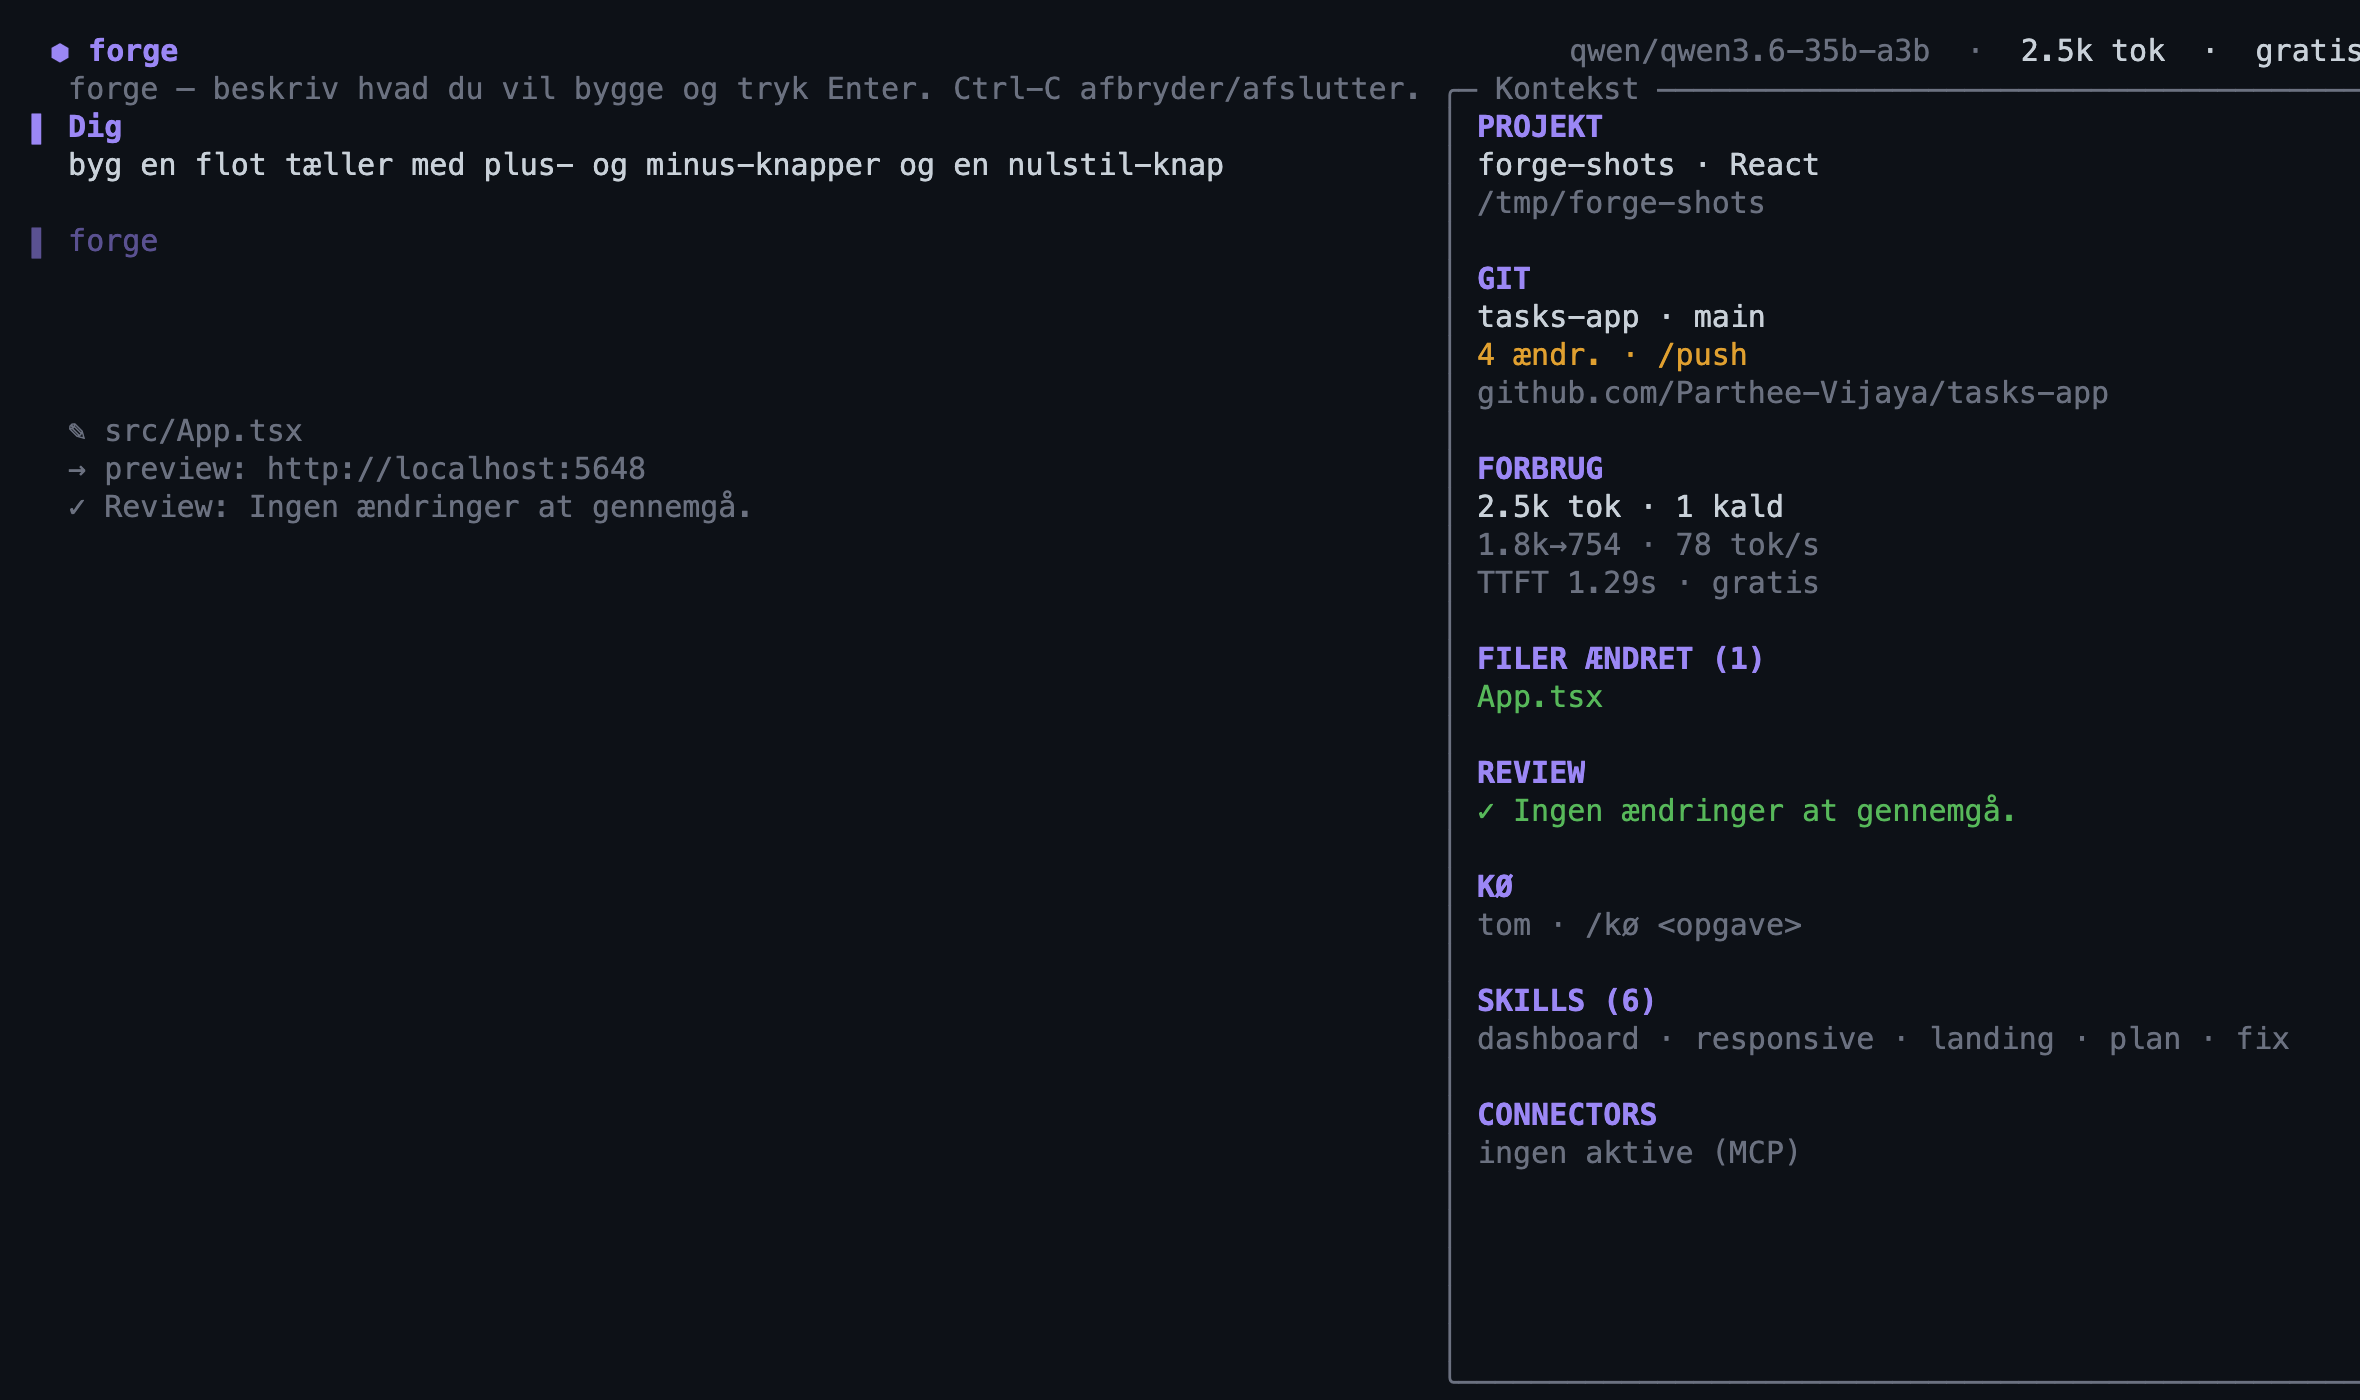
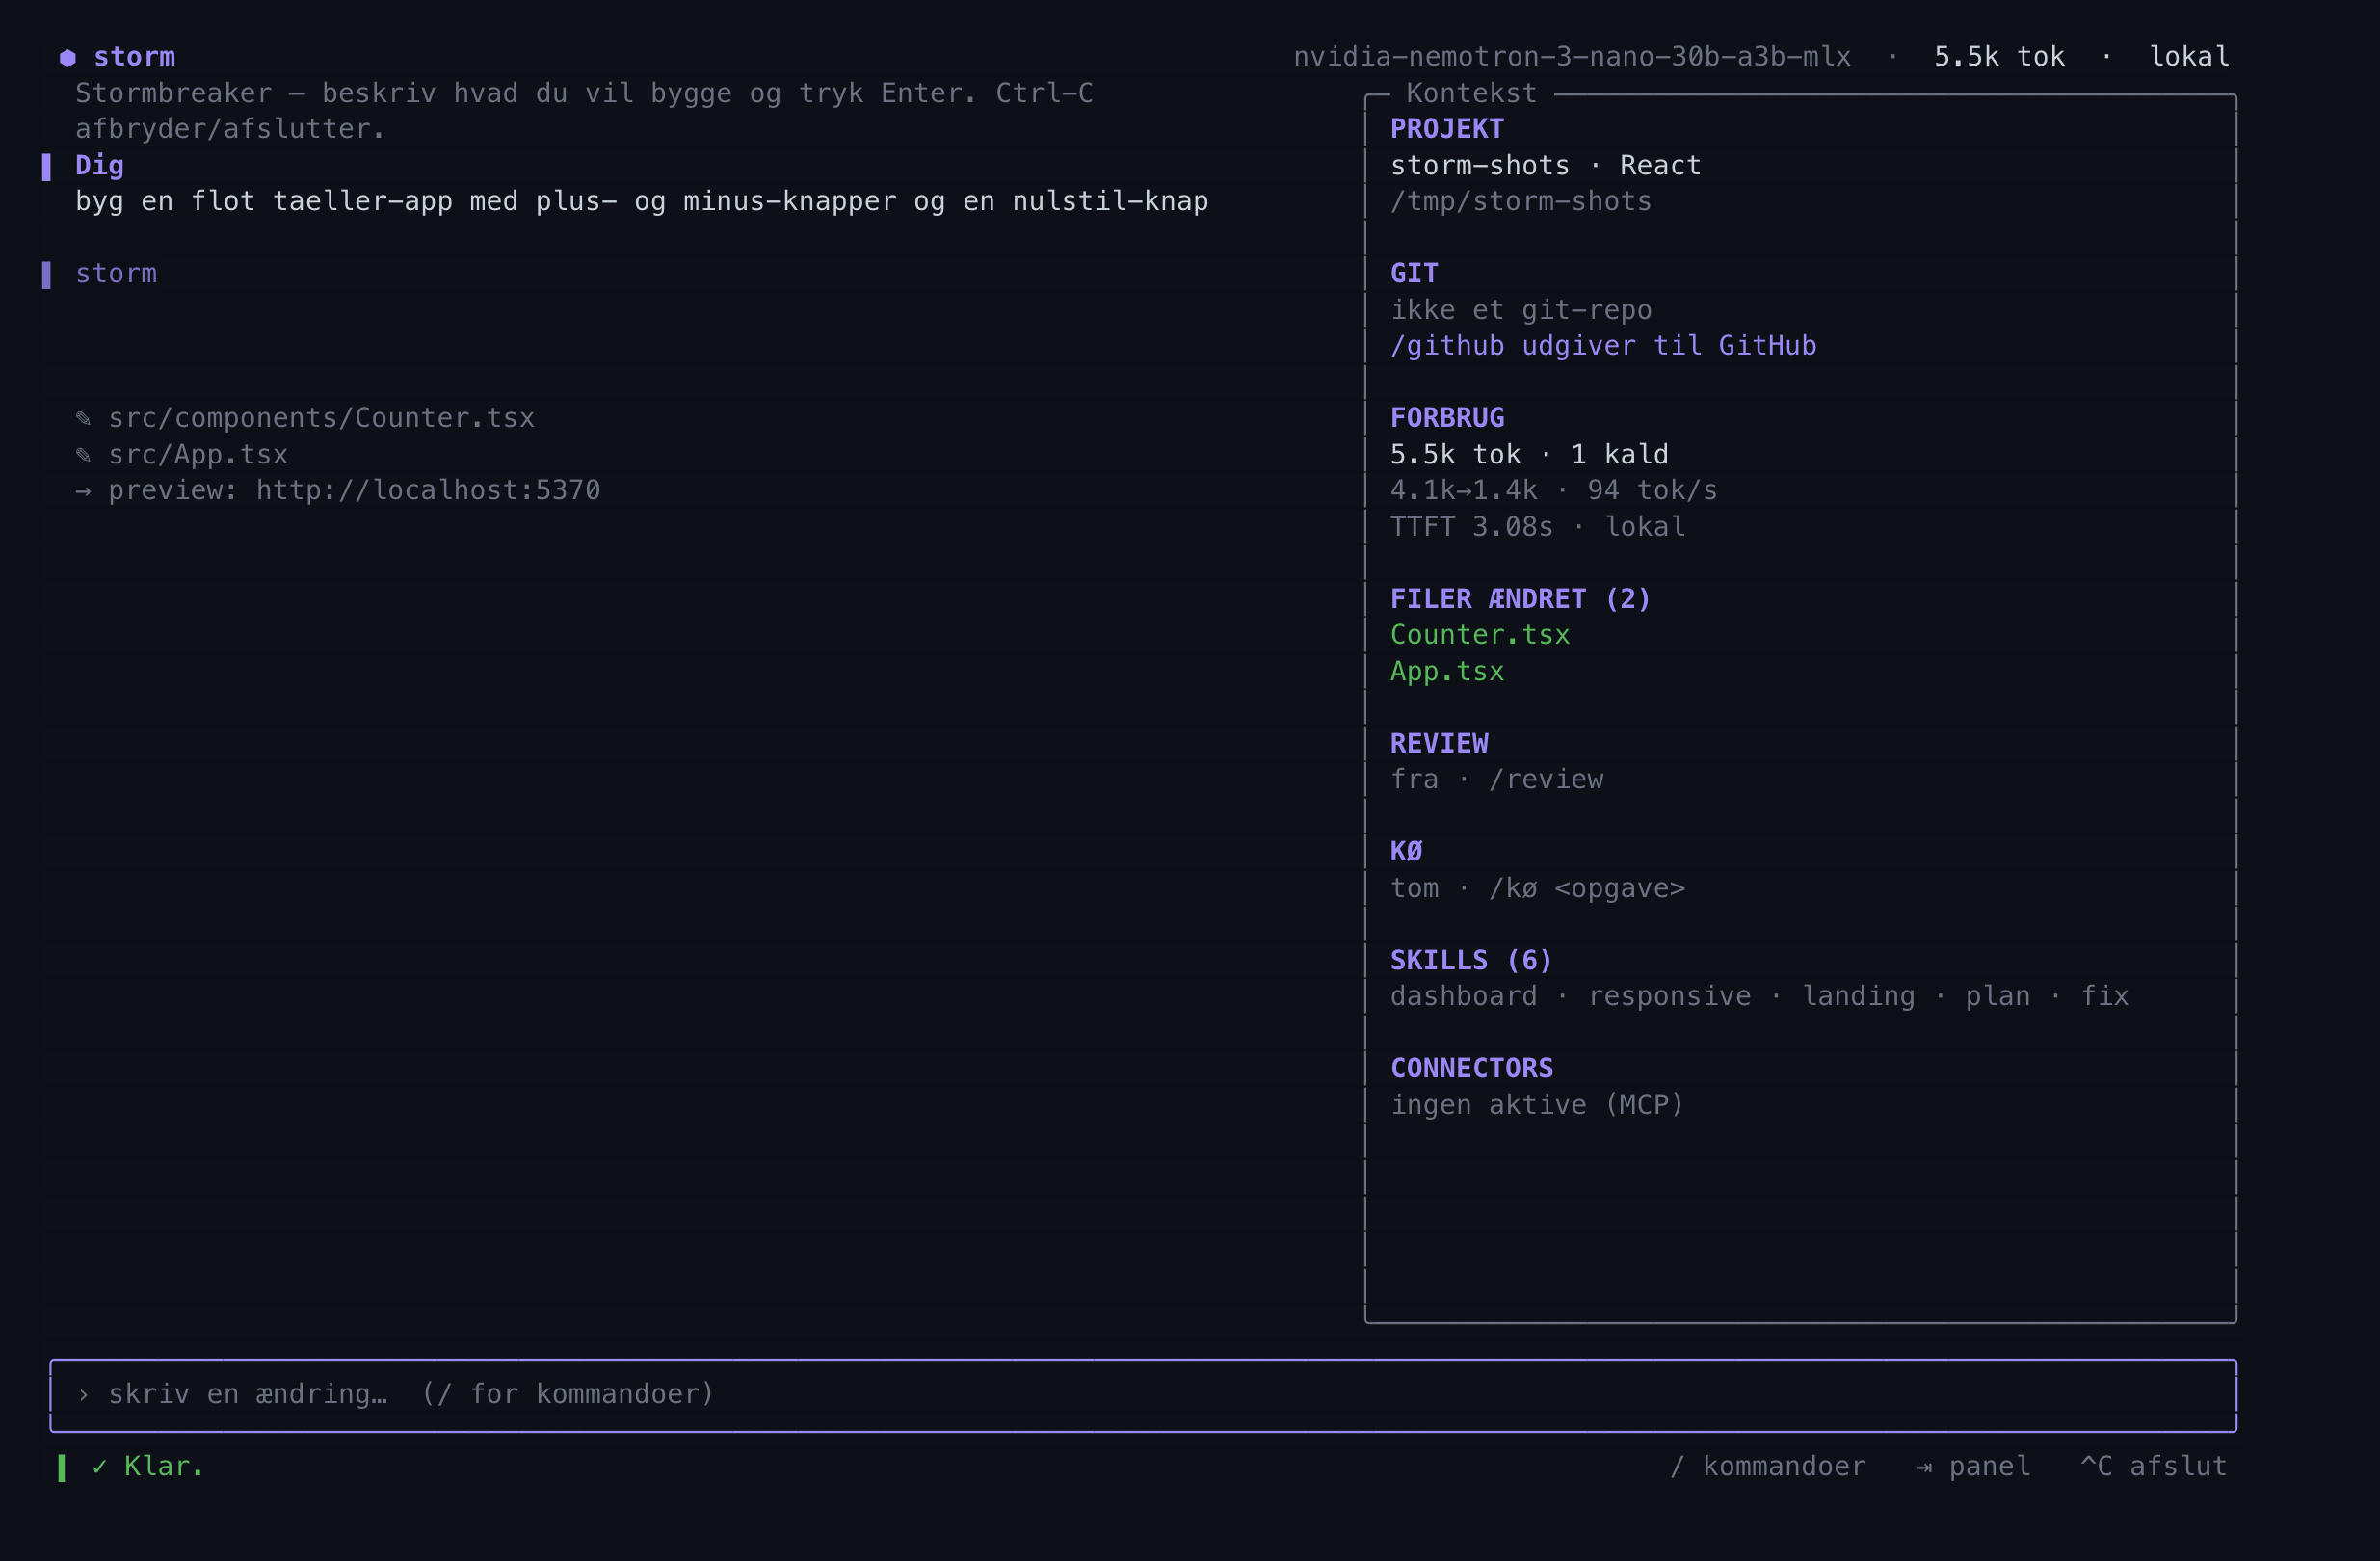
docs(site): current features + commands + fresh storm-branded CLI screenshots
The GitHub Pages site was out of date: missing the latest features, and ALL screenshots
still showed the old "Forge"/"forge" branding from before the rename.

This pass:
- index.html: gate chip → per-command shell permissions; add 4 feature chips
  (web-as-a-tool, live plan checklist, cross-session memory, conversation compaction).
- avanceret.html: hero copy refreshed; "Live build" step mentions the PLAN panel; new
  "Hukommelse & kontekst" command card (/remember, /memory, /compact); new memory tour step.
- Regenerated the 3 CLI screenshots (10/11/12) with correct "⬢ storm" branding + added a
  new /memory shot (13) — rendered from real `storm` TUI runs via a tmux→ANSI→Chrome
  pipeline (docs/.shots/ansi2html.py, kept for reproducibility).

Still pending: the 9 GUI app screenshots (01–09) still show "Forge" — capturing them needs
driving the live app, which was blocked this session by an open Notification Center.

diff --git a/docs/avanceret.html b/docs/avanceret.html
@@ -43,7 +43,7 @@
   <div class="wrap">
     <span class="pill"><span class="dot"></span> Avanceret · til power-brugere</span>
     <h1>Stormbreaker i <span class="grad">terminalen</span>.</h1>
-    <p class="sub">For dig der hellere bliver i terminalen — eller arbejder over SSH. <code>storm chat</code> er en <b>fuldskærms-TUI med præcis samme motor som appen</b>: live fil-streaming med syntaksfarver, farvede diffs, model-skift midt i en session, gendan via checkpoints, en reviewer-agent, indbygget GitHub og en swarm-kø. Nul nye afhængigheder — bare en lille Swift-binær. Installér med <b>én kommando</b>.</p>
+    <p class="sub">For dig der hellere bliver i terminalen — eller arbejder over SSH. <code>storm chat</code> er en <b>fuldskærms-TUI med præcis samme motor som appen</b>: live fil-streaming med syntaksfarver, farvede diffs, en live plan-tjekliste, model-skift midt i en session, gendan via checkpoints, en reviewer-agent, hukommelse der husker dig mellem sessioner, web-opslag, indbygget GitHub og en swarm-kø. Nul nye afhængigheder — bare en lille Swift-binær. Installér med <b>én kommando</b>.</p>
     <div class="cta">
       <a class="btn primary" href="#install">↓ Installér CLI'en</a>
       <a class="btn ghost" href="#kommandoer">Se kommandoer</a>
@@ -79,7 +79,7 @@ curl -fsSL <b>https://parthee-vijaya.github.io/stormbreaker-mac/install.sh</b> |
     <p class="lead">Skriv hvad du vil bygge og tryk Enter. Agenten streamer sine ændringer live, mens en Kontekst-sidebar til højre hele tiden viser hvor du er.</p>
     <div class="tour">
       <div class="step">
-        <div class="copy"><div class="k">Live build &amp; sidebar</div><h3>Byg, og se konteksten</h3><p>Filer skrives live med syntaksfarver. Sidebaren viser forbrug (tokens, hastighed, pris), ændrede filer, reviewer-status, dit git-repo og en swarm-kø — alt sammen mens du bygger. Skift panel med <code>⇥</code>, afbryd med <code>^C</code>.</p></div>
+        <div class="copy"><div class="k">Live build &amp; sidebar</div><h3>Byg, og se konteksten</h3><p>Filer skrives live med syntaksfarver, og agentens plan står som en <b style="color:var(--ink)">PLAN-tjekliste</b> øverst i sidebaren (✓ færdig · ○ mangler). Sidebaren viser også forbrug (tokens, hastighed, pris), ændrede filer, reviewer-status, dit git-repo og en swarm-kø — alt sammen mens du bygger. Skift panel med <code>⇥</code>, afbryd med <code>^C</code>.</p></div>
         <div class="frame"><img src="screenshots/10-cli.png" alt="Hovedskærm med Kontekst-sidebar" loading="lazy"></div>
       </div>
       <div class="step">
@@ -89,6 +89,10 @@ curl -fsSL <b>https://parthee-vijaya.github.io/stormbreaker-mac/install.sh</b> |
       <div class="step">
         <div class="copy"><div class="k">GitHub &amp; swarm</div><h3>Git og en kø — uden at forlade terminalen</h3><p>Udgiv og synk med <code>/github</code>, <code>/push</code>, <code>/pull</code> og <code>/pr</code> — git-status (gren, ændringer, foran/bagud) står live i sidebaren. Og med <code>/kø</code> stiller du flere byggeopgaver i kø; Stormbreaker arbejder dem igennem én ad gangen og viser status undervejs.</p></div>
         <div class="frame"><img src="screenshots/11-cli-swarm.png" alt="Kontekst-sidebar med git-status og swarm-kø" loading="lazy"></div>
+      </div>
+      <div class="step">
+        <div class="copy"><div class="k">Hukommelse</div><h3>Den husker dig — på tværs af sessioner</h3><p><code>/remember &lt;fakta&gt;</code> gemmer en fakta om projektet; <code>/remember</code> alene lader modellen udtrække de holdbare ting fra sessionen. <code>/memory</code> viser hvad den ved — præferencer, beslutninger, konventioner — og det føjes til prompten hver gang, så du ikke gentager dig selv. Alt ligger som almindelig JSON, lokalt. Og <code>/compact</code> komprimerer lange samtaler så små modeller ikke løber tør for kontekst.</p></div>
+        <div class="frame"><img src="screenshots/13-cli-memory.png" alt="/memory — hukommelse på tværs af sessioner" loading="lazy"></div>
       </div>
     </div>
   </div>
@@ -143,6 +147,15 @@ curl -fsSL <b>https://parthee-vijaya.github.io/stormbreaker-mac/install.sh</b> |
           <div class="cmd"><code>/undo</code><span>Fortryd sidste tur.</span></div>
           <div class="cmd"><code>/restore &lt;n&gt;</code><span>Gendan til tur n.</span></div>
           <div class="cmd"><code>/checkpoints</code><span>Liste over ture.</span></div>
+        </div>
+      </div>
+      <div class="card">
+        <h3 class="grp">Hukommelse &amp; kontekst</h3>
+        <div class="cmds">
+          <div class="cmd"><code>/remember &lt;fakta&gt;</code><span>Husk en fakta om projektet.</span></div>
+          <div class="cmd"><code>/remember</code><span>Lær holdbare fakta af sessionen.</span></div>
+          <div class="cmd"><code>/memory</code><span>Vis hukommelse · <code>forget &lt;n&gt;</code> glemmer.</span></div>
+          <div class="cmd"><code>/compact</code><span>Komprimér samtalehistorik.</span></div>
         </div>
       </div>
       <div class="card">

diff --git a/docs/index.html b/docs/index.html
@@ -182,10 +182,14 @@ git clone https://github.com/Parthee-Vijaya/stormbreaker-mac
       <div class="f"><svg class="ck" viewBox="0 0 24 24" fill="none" stroke="currentColor" stroke-width="1.8" stroke-linecap="round" stroke-linejoin="round"><path d="M20 6L9 17l-5-5"/></svg><p><b>Reviewer-agent</b> — en 2. agent gennemgår hvert build for fejl, sikkerhed &amp; tilgængelighed.</p></div>
       <div class="f"><svg class="ck" viewBox="0 0 24 24" fill="none" stroke="currentColor" stroke-width="1.8" stroke-linecap="round" stroke-linejoin="round"><path d="M20 6L9 17l-5-5"/></svg><p><b>GitHub indbygget</b> — udgiv, commit, push/pull &amp; pull requests, med live git-status i sidebaren.</p></div>
       <div class="f"><svg class="ck" viewBox="0 0 24 24" fill="none" stroke="currentColor" stroke-width="1.8" stroke-linecap="round" stroke-linejoin="round"><path d="M20 6L9 17l-5-5"/></svg><p><b>Swarm / kø</b> — stil flere byggeopgaver i kø; de køres én ad gangen.</p></div>
-      <div class="f"><svg class="ck" viewBox="0 0 24 24" fill="none" stroke="currentColor" stroke-width="1.8" stroke-linecap="round" stroke-linejoin="round"><path d="M20 6L9 17l-5-5"/></svg><p><b>Godkendelses-gate</b> — spørg før terminal-kommandoer, pakke-installation &amp; eksterne værktøjer.</p></div>
+      <div class="f"><svg class="ck" viewBox="0 0 24 24" fill="none" stroke="currentColor" stroke-width="1.8" stroke-linecap="round" stroke-linejoin="round"><path d="M20 6L9 17l-5-5"/></svg><p><b>Per-kommando tilladelser</b> — sikre kommandoer kører frit, farlige (<code>rm -rf</code>, <code>sudo</code>, <code>curl|sh</code>) afvises, resten spørger.</p></div>
       <div class="f"><svg class="ck" viewBox="0 0 24 24" fill="none" stroke="currentColor" stroke-width="1.8" stroke-linecap="round" stroke-linejoin="round"><path d="M20 6L9 17l-5-5"/></svg><p><b>Forbrug &amp; pris live</b> — tokens, hastighed og kr/gratis pr. model.</p></div>
       <div class="f"><svg class="ck" viewBox="0 0 24 24" fill="none" stroke="currentColor" stroke-width="1.8" stroke-linecap="round" stroke-linejoin="round"><path d="M20 6L9 17l-5-5"/></svg><p><b>Fuldskærms-TUI</b> (<code>storm chat</code>) med samme motor som appen.</p></div>
       <div class="f"><svg class="ck" viewBox="0 0 24 24" fill="none" stroke="currentColor" stroke-width="1.8" stroke-linecap="round" stroke-linejoin="round"><path d="M20 6L9 17l-5-5"/></svg><p><b>MCP</b> — brug eksterne værktøjer i et build, plus en server så andre agenter kan drive Stormbreaker.</p></div>
+      <div class="f"><svg class="ck" viewBox="0 0 24 24" fill="none" stroke="currentColor" stroke-width="1.8" stroke-linecap="round" stroke-linejoin="round"><path d="M20 6L9 17l-5-5"/></svg><p><b>Web som agent-værktøj</b> — agenten kan selv søge på nettet &amp; hente URL'er/READMEs midt i et build i stedet for at gætte.</p></div>
+      <div class="f"><svg class="ck" viewBox="0 0 24 24" fill="none" stroke="currentColor" stroke-width="1.8" stroke-linecap="round" stroke-linejoin="round"><path d="M20 6L9 17l-5-5"/></svg><p><b>Live plan-tjekliste</b> — agentens plan vises som afkrydsning (PLAN-panel) mens koden streames.</p></div>
+      <div class="f"><svg class="ck" viewBox="0 0 24 24" fill="none" stroke="currentColor" stroke-width="1.8" stroke-linecap="round" stroke-linejoin="round"><path d="M20 6L9 17l-5-5"/></svg><p><b>Hukommelse på tværs af sessioner</b> — husker dine præferencer &amp; projektets valg med <code>/remember</code> og <code>/memory</code>.</p></div>
+      <div class="f"><svg class="ck" viewBox="0 0 24 24" fill="none" stroke="currentColor" stroke-width="1.8" stroke-linecap="round" stroke-linejoin="round"><path d="M20 6L9 17l-5-5"/></svg><p><b>Samtale-compaction</b> — lange sessioner komprimeres automatisk, så små lokale modeller ikke løber tør for kontekst (<code>/compact</code>).</p></div>
       <div class="f"><svg class="ck" viewBox="0 0 24 24" fill="none" stroke="currentColor" stroke-width="1.8" stroke-linecap="round" stroke-linejoin="round"><path d="M20 6L9 17l-5-5"/></svg><p><b>AGENTS.md &amp; @fil-referencer</b> for præcis kontekst.</p></div>
       <div class="f"><svg class="ck" viewBox="0 0 24 24" fill="none" stroke="currentColor" stroke-width="1.8" stroke-linecap="round" stroke-linejoin="round"><path d="M20 6L9 17l-5-5"/></svg><p><b>Lyst / mørkt</b> tema; native notifikationer.</p></div>
       <div class="f"><svg class="ck" viewBox="0 0 24 24" fill="none" stroke="currentColor" stroke-width="1.8" stroke-linecap="round" stroke-linejoin="round"><path d="M20 6L9 17l-5-5"/></svg><p><b>Nøgler i Keychain</b>, aldrig i klartekst.</p></div>

diff --git a/docs/.shots/ansi2html.py b/docs/.shots/ansi2html.py
@@ -1,0 +1,92 @@
+#!/usr/bin/env python3
+"""Convert a tmux `capture-pane -e` ANSI dump into a styled HTML <pre> for a clean
+terminal screenshot (rendered to PNG via headless Chrome). Handles truecolor,
+xterm-256, basic colors, bold and dim."""
+import sys, html, re
+
+BG = "#0c1016"        # terminal background (storm Midnat-ish)
+FG = "#c9d3de"        # default foreground
+
+# 16 base ANSI colors (xterm)
+BASE16 = [
+    "#1c2128", "#ff6b6b", "#5dd39e", "#f5b748", "#46b1ff", "#b98bff", "#56c8d8", "#c9d3de",
+    "#67747f", "#ff8585", "#7fe0b6", "#ffcd6b", "#74c4ff", "#caa6ff", "#7fdce8", "#e8eef4",
+]
+
+def xterm256(n):
+    if n < 16:
+        return BASE16[n]
+    if n < 232:
+        n -= 16
+        levels = [0, 95, 135, 175, 215, 255]
+        r, g, b = levels[(n // 36) % 6], levels[(n // 6) % 6], levels[n % 6]
+        return f"#{r:02x}{g:02x}{b:02x}"
+    v = 8 + (n - 232) * 10
+    return f"#{v:02x}{v:02x}{v:02x}"
+
+class St:
+    def __init__(s): s.fg=None; s.bg=None; s.bold=False; s.dim=False
+    def copy(s):
+        t=St(); t.fg=s.fg; t.bg=s.bg; t.bold=s.bold; t.dim=s.dim; return t
+    def style(s):
+        p=[]
+        fg=s.fg or FG
+        if s.dim and s.fg is None: fg="#8b97a3"
+        p.append(f"color:{fg}")
+        if s.bg: p.append(f"background:{s.bg}")
+        if s.bold: p.append("font-weight:700")
+        if s.dim: p.append("opacity:.78")
+        return ";".join(p)
+
+def apply(st, params):
+    i=0
+    if not params: params=[0]
+    while i < len(params):
+        c=params[i]
+        if c==0: st.fg=None; st.bg=None; st.bold=False; st.dim=False
+        elif c==1: st.bold=True
+        elif c==2: st.dim=True
+        elif c==22: st.bold=False; st.dim=False
+        elif 30<=c<=37: st.fg=BASE16[c-30]
+        elif 90<=c<=97: st.fg=BASE16[c-90+8]
+        elif 40<=c<=47: st.bg=BASE16[c-40]
+        elif 100<=c<=107: st.bg=BASE16[c-100+8]
+        elif c==39: st.fg=None
+        elif c==49: st.bg=None
+        elif c in (38,48):
+            mode=params[i+1] if i+1<len(params) else 5
+            if mode==5:
+                col=xterm256(params[i+2]) if i+2<len(params) else FG
+                i+=2
+            elif mode==2:
+                r,g,b=(params[i+2:i+5]+[0,0,0])[:3]
+                col=f"#{r:02x}{g:02x}{b:02x}"; i+=4
+            else: col=FG
+            if c==38: st.fg=col
+            else: st.bg=col
+        i+=1
+    return st
+
+ANSI=re.compile(r"\x1b\[([0-9;]*)m")
+text=open(sys.argv[1], encoding="utf-8", errors="replace").read()
+# strip non-SGR escapes (cursor moves etc.)
+text=re.sub(r"\x1b\][^\x07]*\x07","",text)
+text=re.sub(r"\x1b\[[0-9;?]*[A-Za-z]", lambda m: m.group(0) if m.group(0).endswith("m") else "", text)
+
+st=St(); out=[]; pos=0
+for m in ANSI.finditer(text):
+    chunk=text[pos:m.start()]
+    if chunk:
+        out.append(f'<span style="{st.style()}">{html.escape(chunk)}</span>')
+    params=[int(x) if x else 0 for x in m.group(1).split(";")] if m.group(1) else [0]
+    st=apply(st, params); pos=m.end()
+tail=text[pos:]
+if tail: out.append(f'<span style="{st.style()}">{html.escape(tail)}</span>')
+
+body="".join(out)
+print(f'''<!doctype html><meta charset=utf-8><style>
+*{{margin:0}} html,body{{background:{BG}}}
+pre{{font:14px/1.34 "SF Mono","Menlo","Consolas",monospace;color:{FG};
+  background:{BG};padding:20px 22px;white-space:pre;display:inline-block;
+  letter-spacing:.1px;-webkit-font-smoothing:antialiased}}
+</style><pre>{body}</pre>''')

diff --git a/docs/.shots/README.md b/docs/.shots/README.md
@@ -1,0 +1,14 @@
+# CLI-screenshots (generator)
+
+Genererer terminal-screenshots af `storm`-TUI'en til websitet
+(`../screenshots/10-cli.png`, `11-cli-swarm.png`, `12-cli-diff.png`, `13-cli-memory.png`).
+
+Pipeline (ingen installation ud over Chrome):
+1. Kør `storm chat` i en tmux-session og driv den til den ønskede tilstand.
+2. `tmux capture-pane -e -p -t <session> > shot.ans`
+3. `python3 ansi2html.py shot.ans > shot.html`
+4. `"/Applications/Google Chrome.app/Contents/MacOS/Google Chrome" --headless \
+     --force-device-scale-factor=2 --window-size=1235,810 --screenshot=shot.png shot.html`
+
+`ansi2html.py` konverterer tmux' ANSI-dump (truecolor/256/basic + bold/dim) til en
+stylet HTML-`<pre>` på mørk baggrund. Temp-filer (.ans/.html/.png) er gitignored.

diff --git a/HANDOFF.md b/HANDOFF.md
@@ -5,7 +5,7 @@
 > Du skriver en prompt → en AI-agent skriver et React+Vite+TS+Tailwind-projekt til disk
 > → Stormbreaker kører det → preview opdaterer via HMR.
 
-- **Sidst opdateret:** 2026-06-18
+- **Sidst opdateret:** 2026-06-19
 - **Status:** Walking skeleton + **Lovable-stil UI** KOMPLET og verificeret i GUI. Empty-state hero → split-layout når der bygges; synlig tekst (tvunget lyst tema), fil-chips pr. besked, preview-toolbar (device-toggles/URL/refresh/åbn-i-browser), HMR-edits. **Multi-model**: auto-discovery af Ollama + LM Studio (verificeret live). **Kode-visning + fil-træ** (redigerbar editor → HMR) og **multi-projekt + historik** (skift/opret/slet, persistent pr. projekt) — begge verificeret live. **nanocoder-køreplan leveret**: `storm` CLI, bruger-skills (CLI+GUI), og MCP tool-calling — agenten kan kalde eksterne MCP-værktøjer midt i et build (e2e-verificeret) + eksterne agenter kan drive Stormbreaker via `storm-mcp`. **opencode-køreplan leveret**: approval-gate, diagnostics, cost, AGENTS.md, @file, export, prettier, steer-API + **fuld-skærms TUI** (`storm chat`) med live fil-streaming, farvediffs, model-skift, sessioner, slash-menu/temaer og en Kontekst-sidebar. **agentic-SDLC leveret**: reviewer-agent, GitHub-integration (GIT-sidebar + `/github`/`/push`/`/pull`/`/pr`) og swarm/kø (`/kø` + KØ-sidebar). Alle 177 StormbreakerKit-tests grønne; Mac-app + CLI bygger.
 - **Branch:** main · committed: skeleton + Lovable-UI + LM Studio-discovery (intet remote endnu)
 
@@ -90,6 +90,7 @@ Borrow fra scalable.dk/agentic-sdlc — gør Stormbreaker til et lille team, ikk
 ## Commit-log (auto-genereret)
 
 <!-- COMMITLOG:START -->
+- `b3a041b` 2026-06-18 — docs: add CLI architecture slide deck (.pptx) + generator
 - `81ce686` 2026-06-18 — docs: thorough CLI architecture doc with diagrams
 - `a20cb42` 2026-06-18 — Cross-session memory: storm now remembers the user + project between sessions
 - `bb4be3d` 2026-06-18 — Conversation compaction: summarize old turns so local context windows don't overflow
@@ -109,5 +110,4 @@ Borrow fra scalable.dk/agentic-sdlc — gør Stormbreaker til et lille team, ikk
 - `5536484` 2026-06-18 — AgentLoop: keep token accounting when a build fails at artifact-close
 - `41384d3` 2026-06-18 — TUI: token-forbrug altid ved siden af modelnavnet i headeren
 - `36b34f0` 2026-06-18 — docs(handoff): document the agentic-SDLC køreplan (reviewer · GitHub · swarm)
-- `1dc4b23` 2026-06-18 — Swarm/kø S1+S2 (agentic-SDLC borrow): task queue runner + KØ sidebar
 <!-- COMMITLOG:END -->